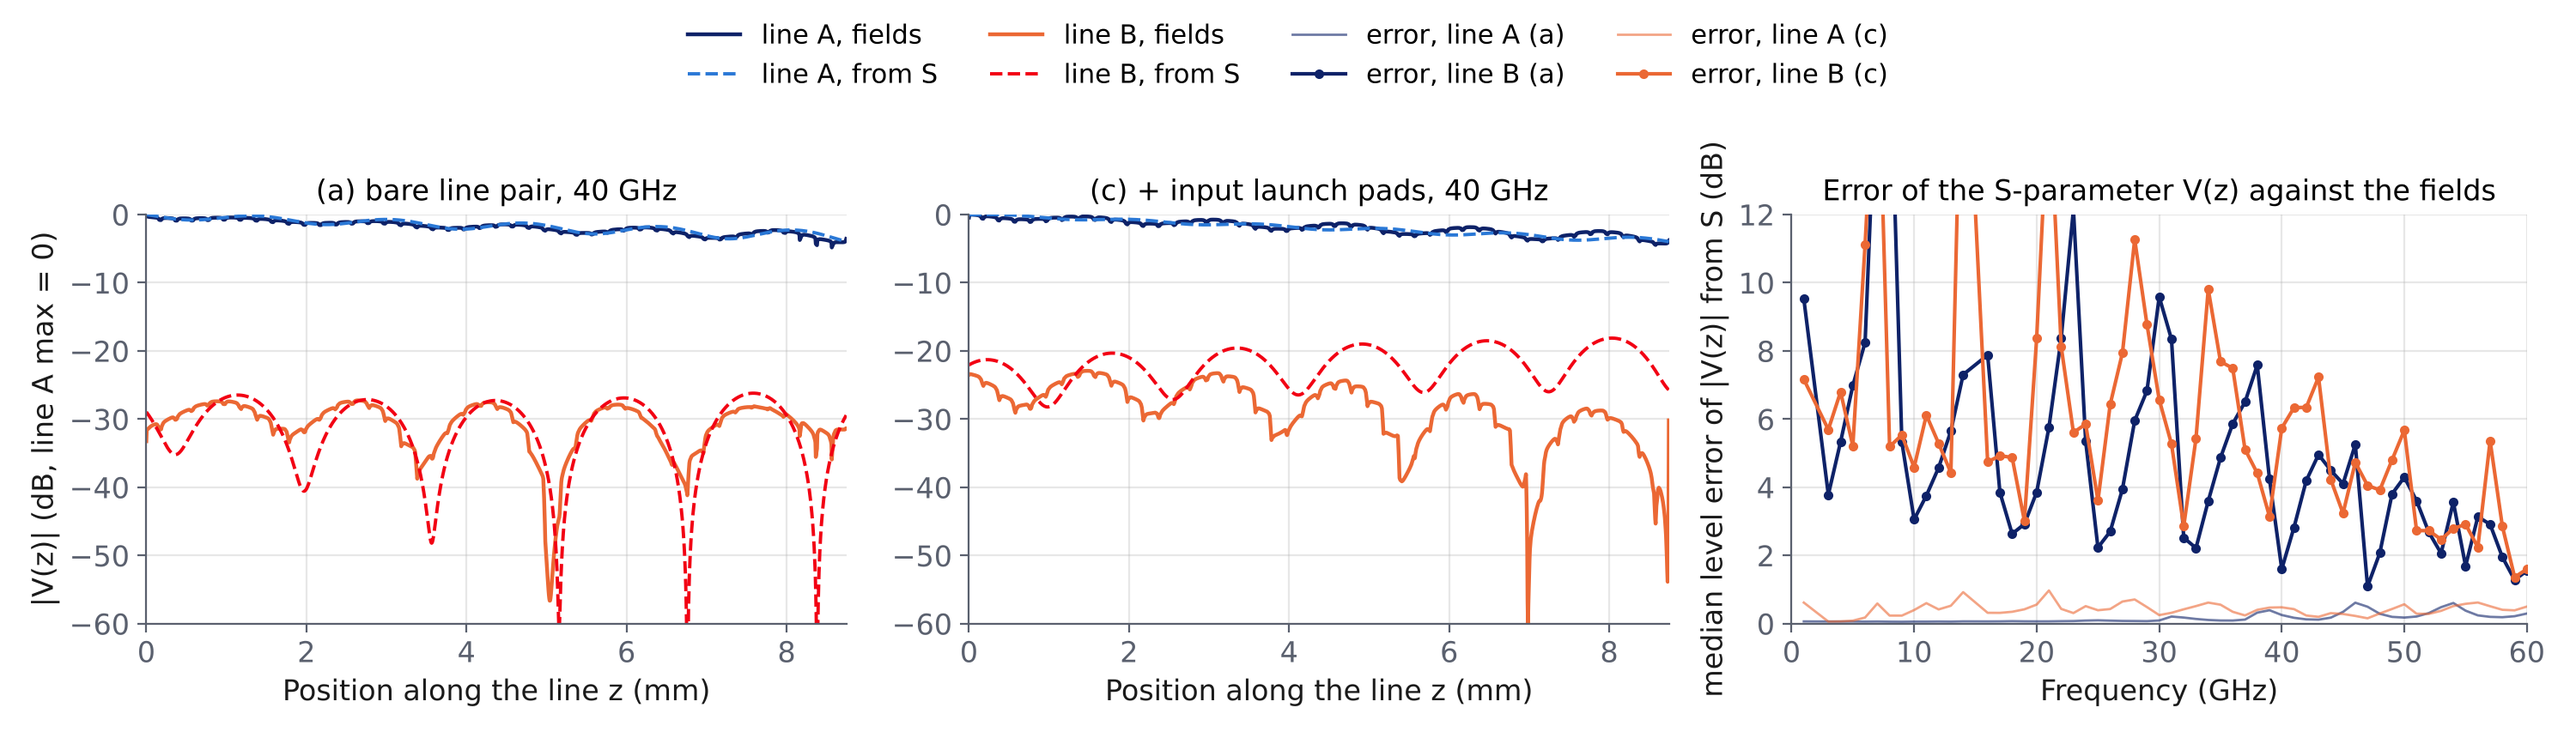
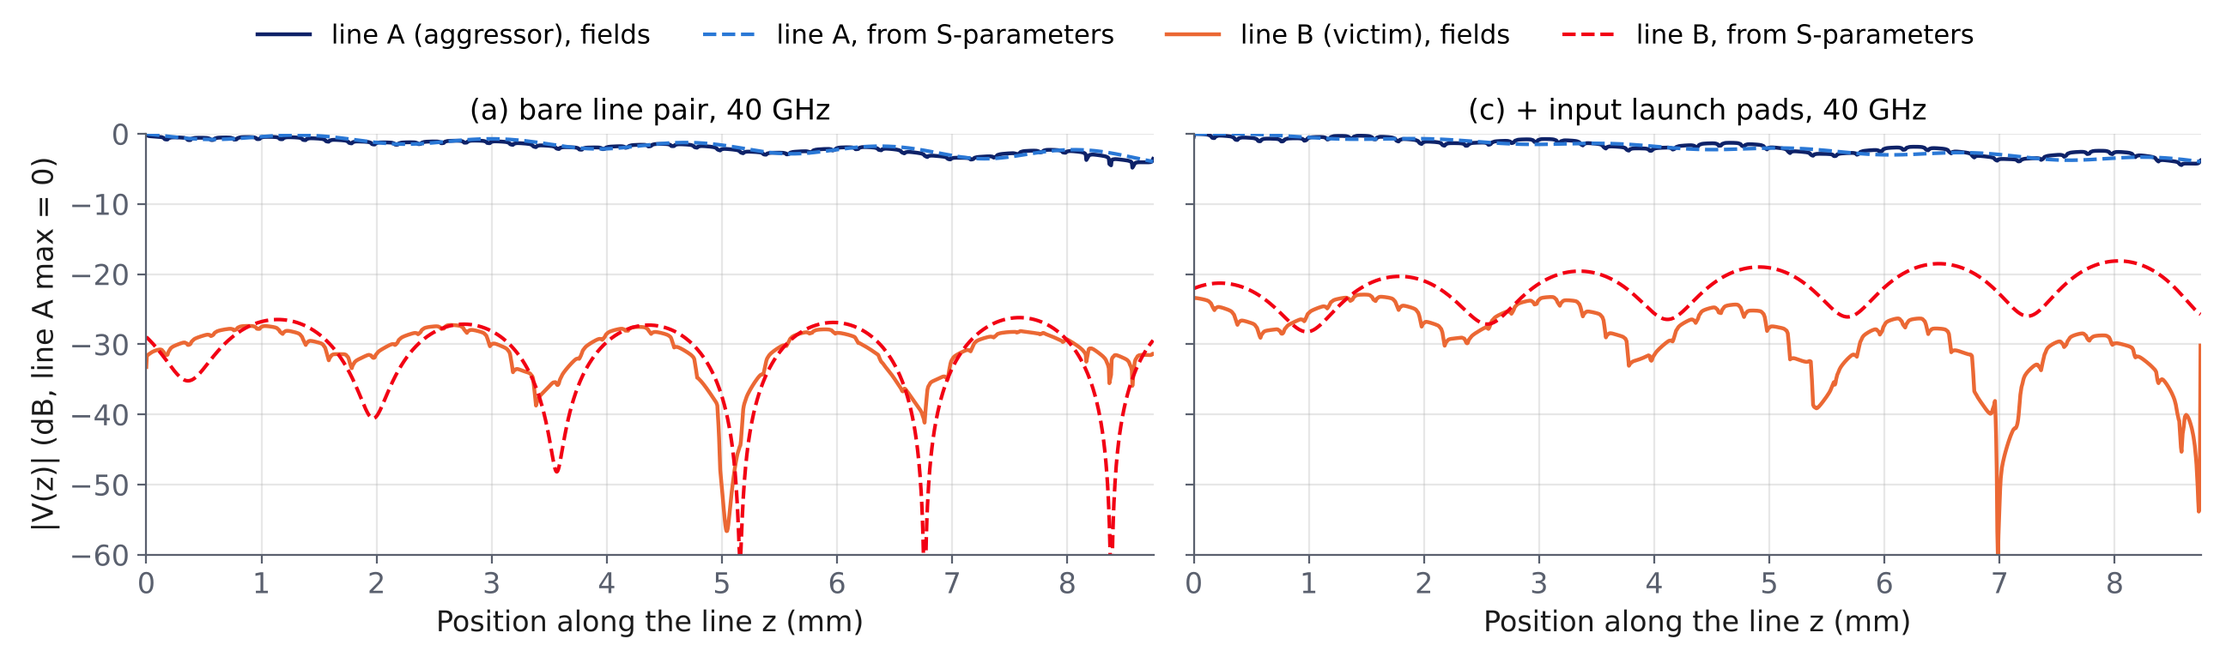
Istanbul deck source: slide 12 slimmed, larger equations, causes of the victim error
Claude-Session: https://claude.ai/code/session_01PF7RKNjFsSkyjm1syGCUrV

diff --git a/docs/cst/xtalk/deck/build_istanbul.py b/docs/cst/xtalk/deck/build_istanbul.py
@@ -214,12 +214,14 @@ card(s, 8.4, 5.45, 4.45, 1.45, "Limits", ["A sharper comparison needs numerical 
 caption(s, 0.5, 5.85, 7.7, "Digitized with WebPlotDigitizer (automeris.io): pixel resolution ≈ 0.2 GHz and 0.15 dB, overlapping curves, notches under-sampled.", h=0.7)
 
 # R1 --------------------------------------------------------------- review: V(z) from S vs fields
-s = new(); title(s, "V(z) from S-parameters: exact only for a uniform line", "Same runs, V(z) from the touchstone (uniform coupled pair) and from the gap fields")
-fig(s, "review_vz.png", 0.5, 1.5, 12.35, 3.55, "V(z) of both lines from S-parameters and from fields, runs a and c")
-card(s, 0.5, 5.2, 4.0, 1.75, "From S-parameters", ["Even/odd modes: cosh γL = (A+D)/2, Z_{c} = √(B/C); V(z) = V(0) cosh γz − Z_{c}I(0) sinh γz. The S-matrix holds exactly γ and Z_{c} of the two modes: any pad, wire or driver is folded into the line."], size=10.5)
-card(s, 4.67, 5.2, 4.0, 1.75, "From fields", ["Gap voltage from E_{y} every 5 µm along both lines: no line model, pads and driver included as they are."], size=10.5)
-card(s, 8.84, 5.2, 4.01, 1.75, "Result (median level error)", ["Aggressor: 0.1 dB (a), 0.4 dB (c). Victim: 4 dB (a), 5 dB (c), up to 10 dB. The victim is the small difference of two modes (Δn ≈ 0.005): small errors in γ give large errors. (d): ports at the driver, |S| only: no V(z)."], hc=RED, size=10.5)
-note(s, "S route: only port 1 is excited in the runs; the uniform-pair symmetries (mirror A-B, end reversal, reciprocity) fill the 4-port. Field route: line voltage = mean of the two gap voltages; the 2 of 40 samples per 0.2 mm cell that fall on the cell loading are interpolated. Both normalised to line A at the far-end port. Error = median over z of |dB difference| of |V|.")
+s = new(); title(s, "V(z) from S-parameters: aggressor reproduced, victim not", "Same runs, V(z) from the touchstone (uniform coupled pair) and from the gap fields")
+fig(s, "review_vz.png", 0.5, 1.45, 12.35, 3.7, "V(z) of both lines from S-parameters and from fields, runs a and c")
+text(s, 0.5, 5.25, 6.2, 0.35, "**From S-parameters:** even and odd mode m of a uniform pair", size=12)
+for k_, (nm, yy) in enumerate((("eq12_mode", 5.62), ("eq12_V", 6.22), ("eq12_AB", 6.58))):
+    H_ = Image.open(os.path.join(IMG, nm + ".png")).size[1]; eqimg(s, nm, 0.75, yy, H_ * 0.0034)
+card(s, 6.95, 5.25, 5.9, 1.7, "Why the victim fails", ["(a) V_{B} is the small difference of two nearly equal modes (n_{e} − n_{o} ≈ 0.005): S-parameter errors of −40 dB shift it by 1–6 dB.",
+     "(c) The pads are folded into the line: Z_{o} − Z_{e} jumps from 1 to 11 Ω (40 GHz), i.e. the pad coupling is spread along z: victim ≈ +7 dB."], hc=RED, size=11)
+note(s, "S route: only port 1 is excited in the runs; the uniform-pair symmetries (mirror A-B, end reversal, reciprocity) fill the 4-port. Field route: line voltage = mean of the two gap voltages; the 2 of 40 samples per 0.2 mm cell that fall on the cell loading are interpolated. Both normalised to line A at the far-end port. Sensitivity: complex noise of -40 / -50 / -60 dB added to S11, S21, S31, S41 (run a) changes the S-route victim by 6 / 3.8 / 1.3 dB at 10 GHz and 1 / 0.5 / 0.1 dB at 40 GHz (median over z); the aggressor by < 0.1 dB.")
 
 # R2 --------------------------------------------------------------- review: EE crosstalk
 s = new(); title(s, "EE crosstalk: S-parameters and fields agree", "NEXT and FEXT of runs a, c, d from the touchstone and from the field at the line ends")

diff --git a/docs/cst/xtalk/deck/review_figs.py b/docs/cst/xtalk/deck/review_figs.py
@@ -21,30 +21,19 @@ dB = lambda x: 20*np.log10(np.maximum(abs(x), 1e-12))
 R = {r: M.analyse(r) for r in "acd"}; TT = {"a": "(a) bare line pair", "c": "(c) + input launch pads", "d": "(d) + driver and bond wires"}
 m5 = R["a"]["f"] >= 5
 
-# V(z): profiles at 40 GHz (a, c) and victim error against frequency
-fig, ax = plt.subplots(1, 3, figsize=(15, 4.3), gridspec_kw=dict(width_ratios=[1, 1, 1.05]))
+# V(z): profiles at 40 GHz (a, c)
+fig, ax = plt.subplots(1, 2, figsize=(13, 3.9), sharey=True)
 q = 40
 for k, r in enumerate("ac"):
     d = R[r]; i = np.argmin(abs(d["f"]-q)); z = d["z"]*1e3; n = np.max(abs(d["Vf_A"][i])); ns = np.max(abs(d["Vs_A"][i]))
-    ax[k].plot(z, dB(d["Vf_A"][i]/n), color=NAVY, lw=1.6, label="line A, fields")
-    ax[k].plot(z, dB(d["Vs_A"][i]/ns), "--", color=BLUE, lw=1.4, label="line A, from S")
-    ax[k].plot(z, dB(d["Vf_B"][i]/n), color=ORANGE, lw=1.6, label="line B, fields")
-    ax[k].plot(z, dB(d["Vs_B"][i]/ns), "--", color=RED, lw=1.4, label="line B, from S")
+    ax[k].plot(z, dB(d["Vf_A"][i]/n), color=NAVY, lw=1.6, label="line A (aggressor), fields")
+    ax[k].plot(z, dB(d["Vs_A"][i]/ns), "--", color=BLUE, lw=1.5, label="line A, from S-parameters")
+    ax[k].plot(z, dB(d["Vf_B"][i]/n), color=ORANGE, lw=1.6, label="line B (victim), fields")
+    ax[k].plot(z, dB(d["Vs_B"][i]/ns), "--", color=RED, lw=1.5, label="line B, from S-parameters")
     ax[k].set_ylim(-60, 0); ax[k].set_xlim(0, 8.75); ax[k].set_xlabel("Position along the line z (mm)"); ax[k].grid(alpha=0.3)
     ax[k].set_title(f"{TT[r]}, {q} GHz", fontsize=12)
 ax[0].set_ylabel("|V(z)| (dB, line A max = 0)")
-for r, c in (("a", NAVY), ("c", ORANGE)):
-    d = R[r]; ok = ~d["bad"]
-    # level error: median over z of the dB difference of |V| (S route - fields), each normalised to its own line A mean
-    lev = lambda Vs, Vf, ns, nf: np.median(abs(dB(Vs[:, ok]/ns)-dB(Vf[:, ok]/nf)), 1)
-    nS = np.mean(abs(d["Vs_A"]), 1)[:, None]; nF = np.mean(abs(d["Vf_A"]), 1)[:, None]
-    eA, eB = lev(d["Vs_A"], d["Vf_A"], nS, nF), lev(d["Vs_B"], d["Vf_B"], nS, nF)
-    ax[2].plot(d["f"], eA, "-", color=c, lw=1.0, alpha=0.6, label=f"error, line A {TT[r][:3]}")
-    ax[2].plot(d["f"], eB, "o-", color=c, ms=3, lw=1.5, label=f"error, line B {TT[r][:3]}")
-    print(r, "median level error 5-60 GHz: A %.2f dB, B %.1f dB" % (np.median(eA[m5]), np.median(eB[m5])))
-ax[2].set_ylim(0, 12); ax[2].set_xlim(0, 60); ax[2].set_xlabel("Frequency (GHz)"); ax[2].set_ylabel("median level error of |V(z)| from S (dB)"); ax[2].grid(alpha=0.3)
-ax[2].set_title("Error of the S-parameter V(z) against the fields", fontsize=12)
-top_legend(fig, ax, ncol=4, top=0.80); fig.savefig(os.path.join(OUT, "review_vz.png"), dpi=200); plt.close(fig)
+top_legend(fig, ax, ncol=4, top=0.9); fig.savefig(os.path.join(OUT, "review_vz.png"), dpi=200); plt.close(fig)
 
 # EE crosstalk: S-parameters vs fields
 fig, ax = plt.subplots(1, 3, figsize=(15, 4.3), sharey=True)

diff --git a/docs/cst/xtalk/deck/slide5_fig.py b/docs/cst/xtalk/deck/slide5_fig.py
@@ -54,6 +54,9 @@ EQ = {"eq5_pockels": r"$\dfrac{d\varphi_\pm}{dz} = \pm\,\kappa\,V_\pm(z,t),\qqua
       "eq5_H": r"$H[V] = \dfrac{1}{L}\int_0^L V(z)\,e^{j\beta_o z}\,dz,\qquad \beta_o = \dfrac{\omega\,n_g}{c}$",
       "eq5_X": r"$\varphi_+ - \varphi_- = \kappa L\,\mathrm{Re}\{M\,e^{j\omega t_0}\},\qquad M = H[V_+] + H[V_-] = 2\,H[V_d]$",
       "eq5_X2": r"$V_d = \dfrac{V_+ + V_-}{2},\quad V_c = \dfrac{V_+ - V_-}{2}\ \mathrm{(cancels)},\qquad X_{EO} = \dfrac{M_B}{M_A}$"}
+EQ.update({"eq12_mode": r"$\cosh\gamma_m L = \dfrac{A_m + D_m}{2},\qquad Z_m = \sqrt{B_m/C_m}$",
+           "eq12_V": r"$V_m(z) = V_m(0)\cosh\gamma_m z - Z_m I_m(0)\sinh\gamma_m z$",
+           "eq12_AB": r"$V_A = V_{even} + V_{odd},\qquad V_B = V_{even} - V_{odd}$"})
 for k, v in EQ.items():
     f = plt.figure(figsize=(0.1, 0.1)); f.text(0, 0, v, fontsize=22, color="#1A1A1A")
     f.savefig(os.path.join(OUT, k + ".png"), dpi=200, bbox_inches="tight", pad_inches=0.05, transparent=True); plt.close(f)
